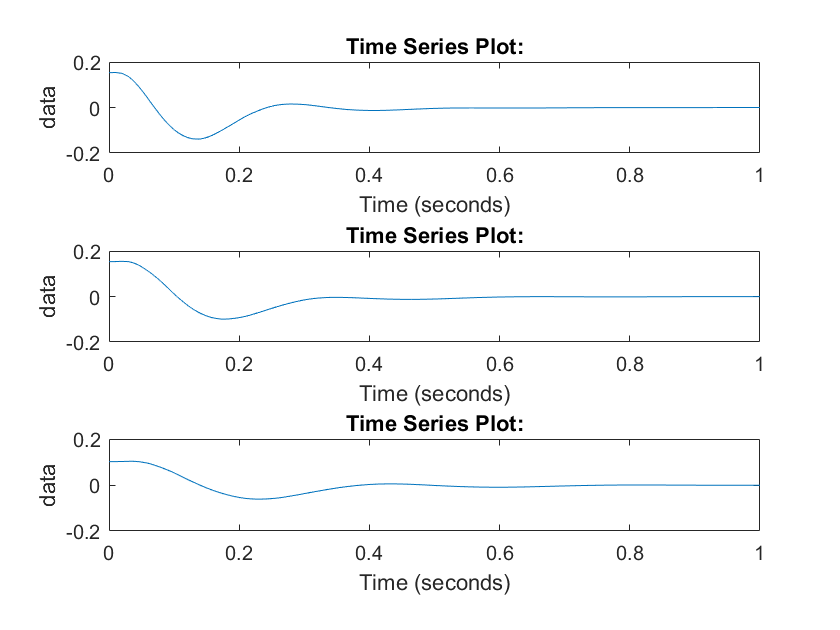
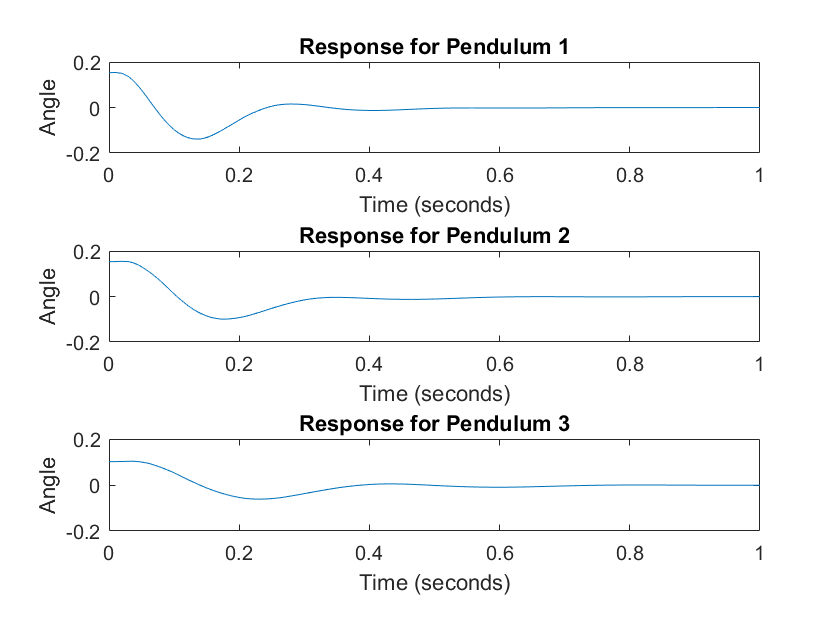
EX3 plots with labels

diff --git a/HW2/HW2_SRC/HW2.m b/HW2/HW2_SRC/HW2.m
@@ -1,20 +1,31 @@
 close all, clear all, clc
+ex1 = 1;
+
 sim('inv_pend_three')
 figure
-
-title('hej')
 subplot(3,1,1)
 plot(pend1)
+title('Response for Pendulum 1')
+ylabel('Angle')
 subplot(3,1,2)
 plot(pend2)
+title('Response for Pendulum 2')
+ylabel('Angle')
 subplot(3,1,3)
 plot(pend3)
-
-
+ylabel('Angle')
+title('Response for Pendulum 3')
 figure
 subplot(3,1,1)
 plot(ctrl1)
+
+title('Control performance for Pendulum 1')
 subplot(3,1,2)
 plot(ctrl2)
+title('Control performance for Pendulum 2')
 subplot(3,1,3)
 plot(ctrl3)
+title('Control performance for Pendulum 3')
+
+
+
